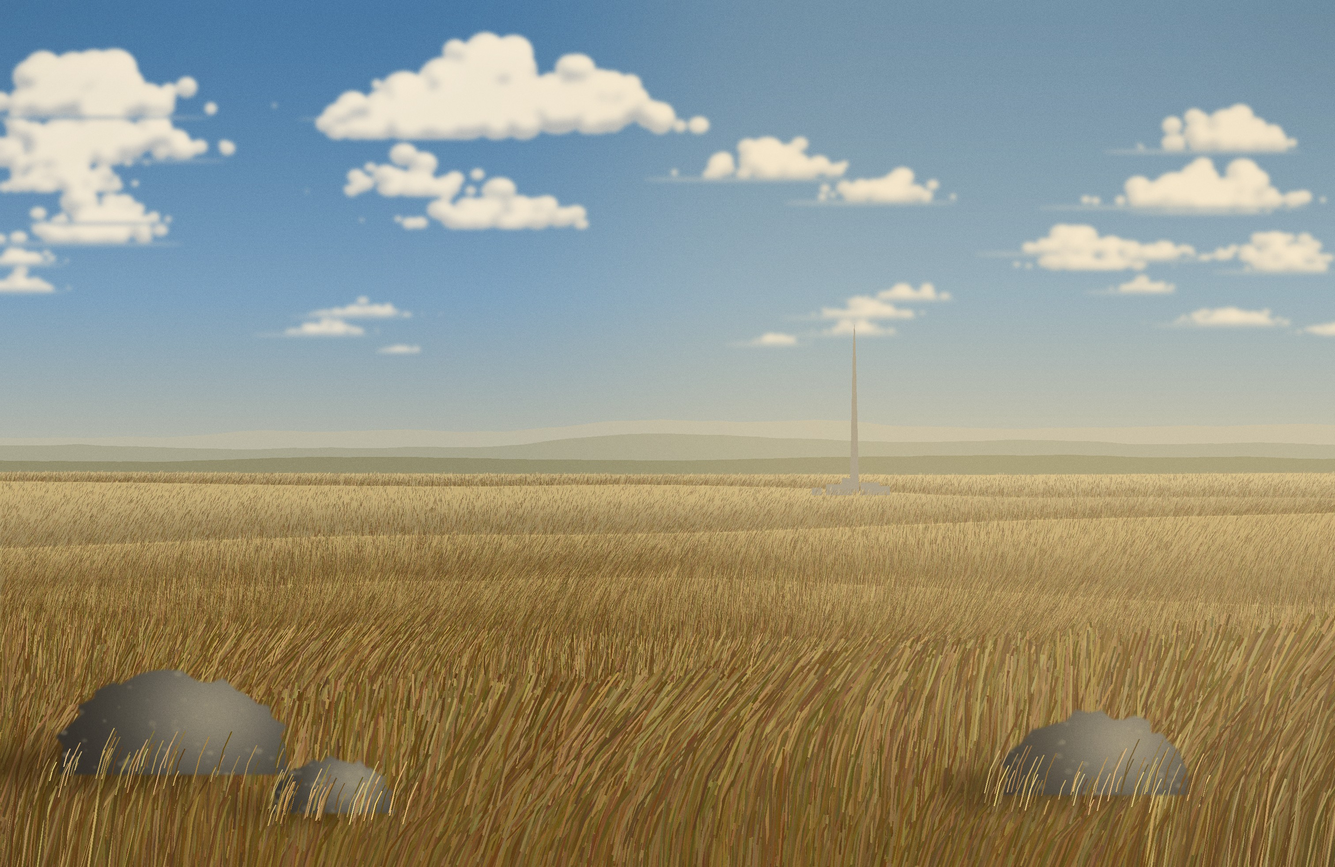
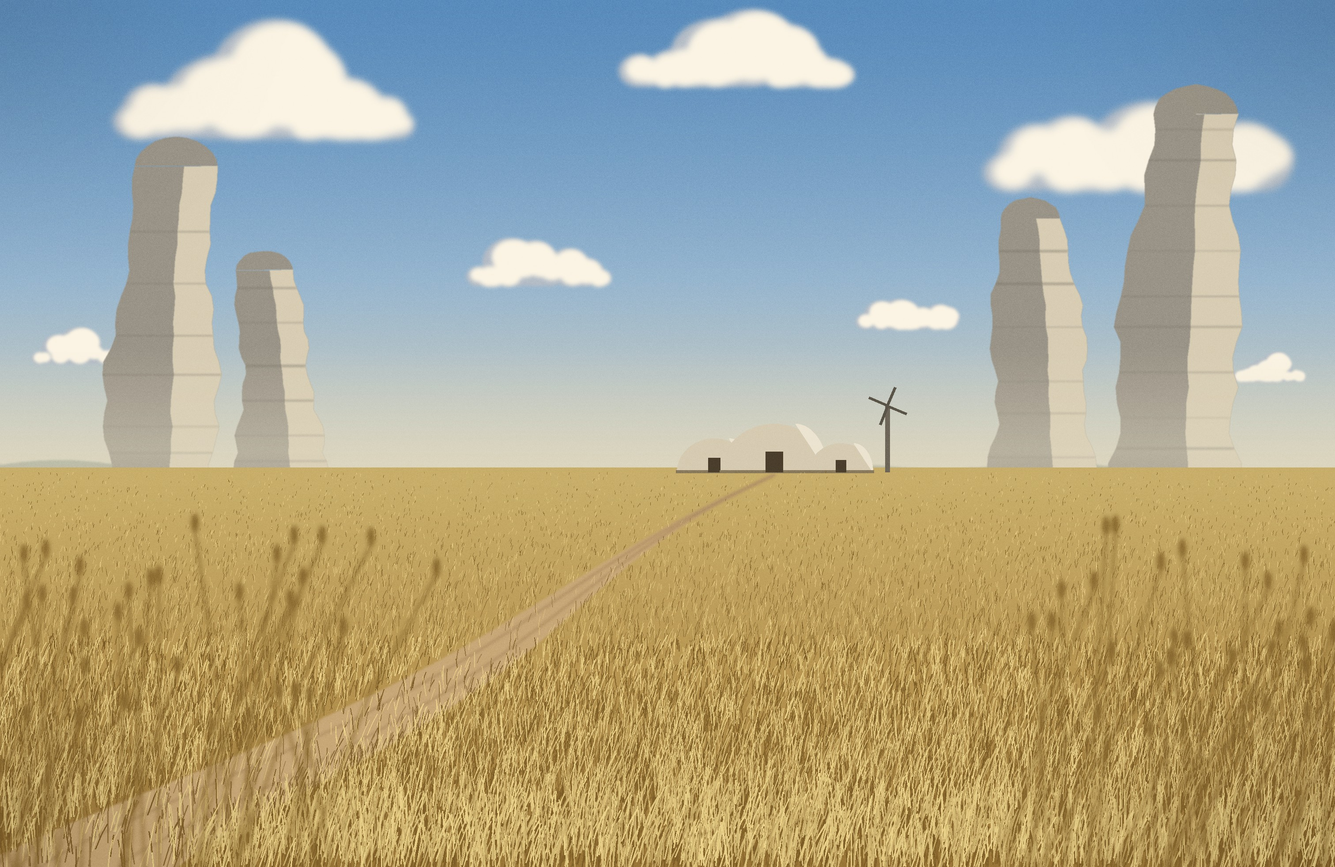
Lothal day: its own view, a farmstead below stone pillars
Review: the day picture was the night one recoloured. Day now
stands down in the grass at midday, a track running up to a farmstead of
domed huts, tall banded stone pillars behind and cumulus overhead.

diff --git a/scripts/lothal.py b/scripts/lothal.py
@@ -1,7 +1,10 @@
 """Render an original grass-sea wallpaper: a moonlit plain of wind-bent grass
 rolling in swells to the horizon, a cloud field receding over it and a lone
-needle spire on a far rise, its tip lit. With --day, the same view at late
-afternoon: gold grass, a cumulus field and the spire hazed by distance.
+needle spire on a far rise, its tip lit.
+
+With --day the viewpoint changes: down in the grass at midday, a dirt track
+running up to a farmstead of domed huts on a rise, tall banded stone pillars
+behind it and cumulus overhead.
 
 Usage: python3 scripts/lothal.py [--day] OUT.jpg [WIDTH HEIGHT]
 Needs Pillow.
@@ -79,6 +82,151 @@ def smooth_noise(n, seed, octaves=4, base=4):
 def solid(c):
     return Image.new("RGB", (W, H), c)
 
+
+# ---- Day: a farmstead on a rise at eye level, stone pillars behind it, a
+# dirt track through the grass. Runs and exits before the night code below.
+def day():
+    rng = random.Random(17)
+    HZ = H * 0.56
+
+    def poly(pts, blur=0):
+        m = Image.new("L", (W, H), 0)
+        ImageDraw.Draw(m).polygon(pts, fill=255)
+        return m.filter(ImageFilter.GaussianBlur(blur)) if blur else m
+
+    img = Image.new("RGB", (W, H))
+    d = ImageDraw.Draw(img)
+    for y in range(H):
+        d.line([(0, y), (W, y)], fill=ramp(["#5a8cbc", "#97b6cf", "#e2d8bc"], (y / HZ) ** 1.25))
+
+    # Cumulus: a shaded body of blobs, a lit cap shifted up and right, flat bases.
+    def cloud(cx, cy, size):
+        nonlocal img
+        body = Image.new("L", (W, H), 0)
+        bd = ImageDraw.Draw(body)
+        lit = Image.new("L", (W, H), 0)
+        ld = ImageDraw.Draw(lit)
+        for _ in range(int(9 + size / (20 * S))):
+            bx = cx + rng.uniform(-1, 1) * size
+            r = size * rng.uniform(0.25, 0.55) * (1 - abs(bx - cx) / (size * 1.6))
+            by = cy - r * rng.uniform(0.2, 0.9)
+            bd.ellipse([bx - r, by - r, bx + r, min(cy, by + r)], fill=255)
+            ld.ellipse([bx - r * 0.8 + r * 0.15, by - r * 0.95, bx + r * 0.8 + r * 0.15, by + r * 0.35], fill=255)
+        img = Image.composite(solid(rgb("#b4bcc6")), img, body.filter(ImageFilter.GaussianBlur(size * 0.025)))
+        img = Image.composite(solid(rgb("#fbf4e4")), img, ImageChops.multiply(lit, body).filter(ImageFilter.GaussianBlur(size * 0.03)))
+
+    for cx, cy, sz in [(0.2, 0.16, 300), (0.55, 0.1, 230), (0.86, 0.22, 320), (0.4, 0.33, 150), (0.68, 0.38, 110), (0.06, 0.42, 100), (0.95, 0.44, 80)]:
+        cloud(W * cx, H * cy, sz * S)
+
+    # Far hills.
+    d = ImageDraw.Draw(img)
+    pts = [(x, HZ - 26 * S - 22 * S * math.sin(x / (W * 0.11) + 1.3) - 10 * S * math.sin(x / (W * 0.03))) for x in range(0, W + 12, 12)]
+    img.paste(rgb("#a8ae9c"), mask=poly(pts + [(W, HZ + 10 * S), (0, HZ + 10 * S)], 2 * S))
+
+    # Stone pillars: tall, slightly curved, banded, lit on the right, hazed.
+    def pillar(x, base, h, w, lean):
+        nonlocal img
+        left, right = [], []
+        for i in range(25):
+            t = i / 24
+            cx = x + lean * h * t * t
+            ww = w * (1.25 - 0.45 * t) * (1 + 0.1 * math.sin(t * 9 + x) + 0.06 * math.sin(t * 31 + x * 2))
+            left.append((cx - ww * (1 + rng.uniform(-0.03, 0.03)), base - h * t))
+            right.append((cx + ww * (1 + rng.uniform(-0.03, 0.03)), base - h * t))
+        # A rounded, weathered top.
+        tcx, tcy, tr = (left[-1][0] + right[-1][0]) / 2, left[-1][1], (right[-1][0] - left[-1][0]) / 2
+        cap = [(tcx + tr * math.cos(a), tcy - tr * 0.7 * math.sin(a) + rng.uniform(-2, 2) * S) for a in [k * math.pi / 12 for k in range(13)]]
+        img.paste(rgb("#9a9488"), mask=poly(left + cap + right[::-1], 1 * S))
+        litp = [((l[0] + r[0]) / 2 + (r[0] - l[0]) * 0.1, l[1]) for l, r in zip(left, right)]
+        img.paste(rgb("#d8cdb4"), mask=poly(litp + cap[:1] + right[::-1], 1 * S))
+        bands = Image.new("L", (W, H), 0)
+        bdd = ImageDraw.Draw(bands)
+        i = 2
+        while i < 24:
+            bdd.line([left[i], right[i]], fill=rng.randint(60, 120), width=max(1, int(rng.uniform(2, 7) * S)))
+            i += rng.randint(2, 5)
+        img = Image.composite(solid(rgb("#7c766a")), img, ImageChops.multiply(bands.filter(ImageFilter.GaussianBlur(2 * S)), poly(left + right[::-1])))
+
+    for x, b, h, w, lean in [(0.12, 0.55, 0.36, 0.035, 0.05), (0.21, 0.55, 0.24, 0.026, -0.08), (0.78, 0.55, 0.3, 0.032, -0.04), (0.88, 0.55, 0.42, 0.04, 0.06)]:
+        pillar(W * x, H * b + 4 * S, H * h, W * w, lean)
+    haze = Image.linear_gradient("L").resize((W, H)).point(lambda v: int(110 * max(0.0, 1 - abs(v / 255 - 0.52) / 0.12)))
+    img = Image.composite(solid(rgb("#e0d8c0")), img, haze)
+
+    # The plain: gold grass to the horizon.
+    d = ImageDraw.Draw(img)
+    for y in range(int(HZ - 40 * S), H):
+        d.line([(0, y), (W, y)], fill=ramp(["#c8ae6a", "#b89652", "#9a7638"], (y - HZ) / (H - HZ)))
+
+    # The farmstead: three domes and a vane tower on the rise.
+    d = ImageDraw.Draw(img)
+    fx, fy = W * 0.58, HZ - 30 * S
+    for dx, r in [(-0.045, 0.028), (0.0, 0.04), (0.05, 0.024)]:
+        x, rr = fx + dx * W, r * W
+        d.chord([x - rr, fy - rr * 0.9, x + rr, fy + rr * 0.9], 180, 360, fill=rgb("#d6cbb2"))
+        d.chord([x - rr * 0.2, fy - rr * 0.9, x + rr, fy + rr * 0.9], 270, 360, fill=rgb("#ece4d0"))
+        d.rectangle([x - rr * 1.02, fy - 4 * S, x + rr * 1.02, fy + 2 * S], fill=rgb("#8a7a5c"))
+        d.rectangle([x - rr * 0.16, fy - rr * 0.38, x + rr * 0.16, fy], fill=rgb("#4a3e2c"))
+    tx = fx + 0.085 * W
+    d.rectangle([tx - 5 * S, fy - 150 * S, tx + 5 * S, fy], fill=rgb("#6e6658"))
+    for k in range(4):
+        a = k * math.pi / 2 + 0.4
+        d.line([(tx, fy - 150 * S), (tx + math.cos(a) * 46 * S, fy - 150 * S + math.sin(a) * 46 * S)], fill=rgb("#5a5448"), width=max(1, int(6 * S)))
+
+    # The dirt track: from the bottom left, curving up to the farmstead.
+    path_l, path_r = [], []
+    for i in range(41):
+        t = i / 40
+        x = W * (0.05 + 0.53 * t) + W * 0.12 * math.sin(t * math.pi) * (1 - t)
+        y = H + 20 * S - (H + 20 * S - fy - 6 * S) * (t ** 0.8)
+        w = (220 * (1 - t) ** 1.6 + 6) * S
+        path_l.append((x - w, y))
+        path_r.append((x + w, y))
+    img.paste(rgb("#c8a878"), mask=poly(path_l + path_r[::-1], 2 * S))
+    ruts = Image.new("L", (W, H), 0)
+    rd = ImageDraw.Draw(ruts)
+    rd.line([((l[0] * 0.7 + r[0] * 0.3), l[1]) for l, r in zip(path_l, path_r)], fill=140, width=max(1, int(5 * S)))
+    rd.line([((l[0] * 0.3 + r[0] * 0.7), l[1]) for l, r in zip(path_l, path_r)], fill=140, width=max(1, int(5 * S)))
+    img = Image.composite(solid(rgb("#9a7c52")), img, ruts.filter(ImageFilter.GaussianBlur(3 * S)))
+
+    # Grass: strokes over the plain, longer toward the viewer, the track left bare.
+    track = poly(path_l + path_r[::-1])
+    blades = Image.new("L", (W, H), 0)
+    lit = Image.new("L", (W, H), 0)
+    bdd, ldd = ImageDraw.Draw(blades), ImageDraw.Draw(lit)
+    for _ in range(int(26000 * S) + 4000):
+        y = HZ - 30 * S + (rng.random() ** 0.7) * (H - HZ + 50 * S)
+        t = max(0.0, (y - HZ) / (H - HZ))
+        x = rng.random() * W
+        if track.getpixel((min(W - 1, int(x)), min(H - 1, int(y)))) > 0 and rng.random() < 0.85:
+            continue
+        h = (4 + 70 * t ** 1.5) * S * rng.uniform(0.6, 1.4)
+        lean = rng.uniform(-0.2, 0.5) * h
+        target = ldd if rng.random() < 0.45 else bdd
+        target.line([(x, y), (x + lean * 0.5, y - h * 0.6), (x + lean, y - h)], fill=rng.randint(120, 255), width=max(1, int((1 + 2.4 * t) * S)))
+    img = Image.composite(solid(rgb("#7a5a24")), img, blades)
+    img = Image.composite(solid(rgb("#ecd48c")), img, lit)
+    # Foreground seed heads, big and soft at the bottom corners.
+    fg = Image.new("L", (W, H), 0)
+    fd = ImageDraw.Draw(fg)
+    for _ in range(70):
+        x = rng.choice([rng.uniform(-0.05, 0.25), rng.uniform(0.75, 1.05)]) * W
+        y0 = H + 20 * S
+        h = rng.uniform(0.16, 0.4) * H
+        lean = rng.uniform(-0.05, 0.12) * W
+        fd.line([(x, y0), (x + lean * 0.5, y0 - h * 0.6), (x + lean, y0 - h)], fill=255, width=max(1, int(5 * S)))
+        fd.ellipse([x + lean - 8 * S, y0 - h - 40 * S, x + lean + 8 * S, y0 - h + 4 * S], fill=255)
+    img = Image.composite(solid(rgb("#8a6a30")), img, fg.filter(ImageFilter.GaussianBlur(5 * S)))
+    vig = Image.new("L", (W, H), 255)
+    ImageDraw.Draw(vig).ellipse([-W * 0.12, -H * 0.2, W * 1.12, H * 1.15], fill=0)
+    img = Image.composite(solid((60, 42, 18)), img, vig.filter(ImageFilter.GaussianBlur(260 * S)).point(lambda v: int(v * 0.3)))
+    noise = Image.effect_noise((W, H), 40).convert("RGB")
+    Image.blend(img, ImageChops.overlay(img, noise), 4 / 30).save(OUT, quality=90)
+    print(OUT)
+
+
+if DAY:
+    day()
+    sys.exit(0)
 
 img = Image.new("RGB", (W, H))
 d = ImageDraw.Draw(img)
